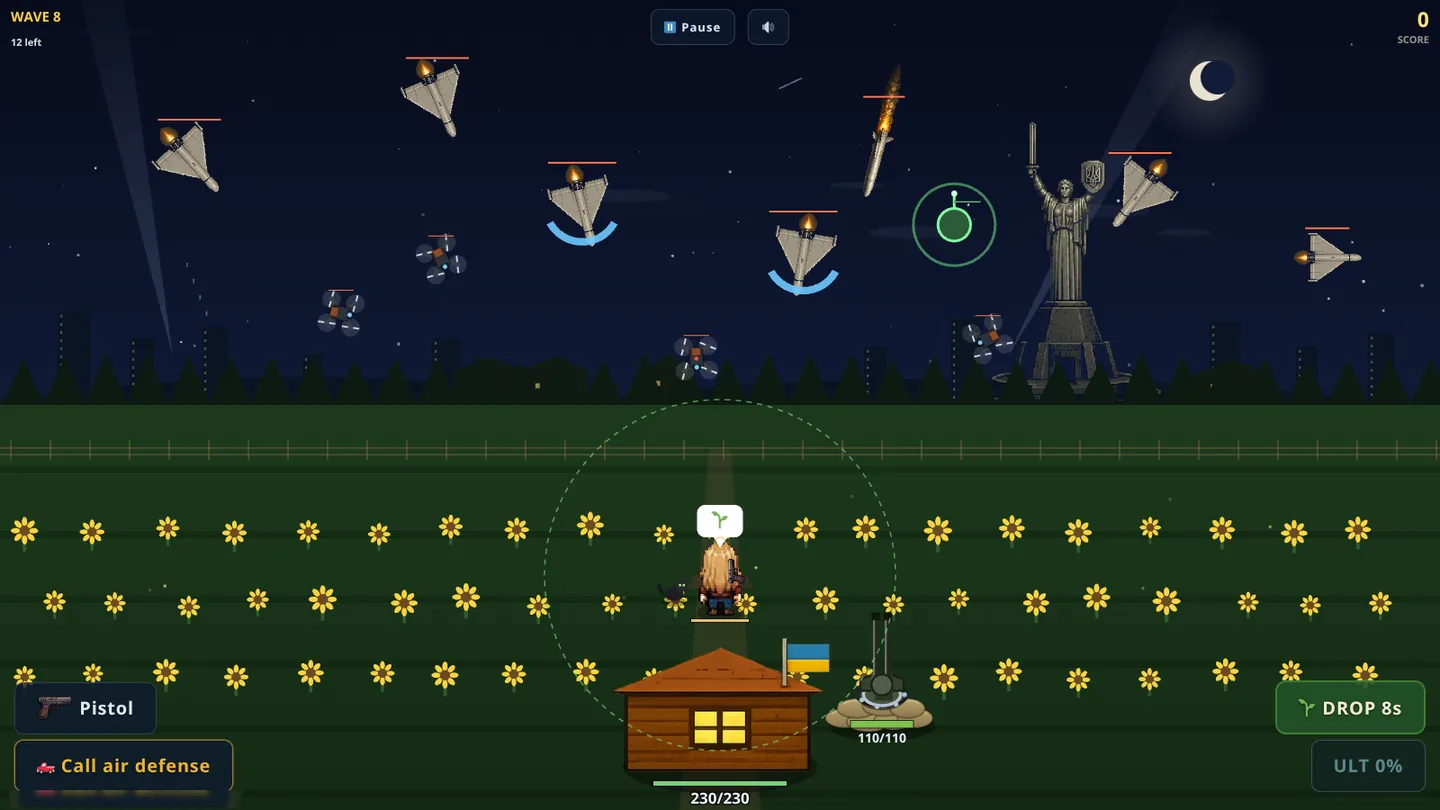
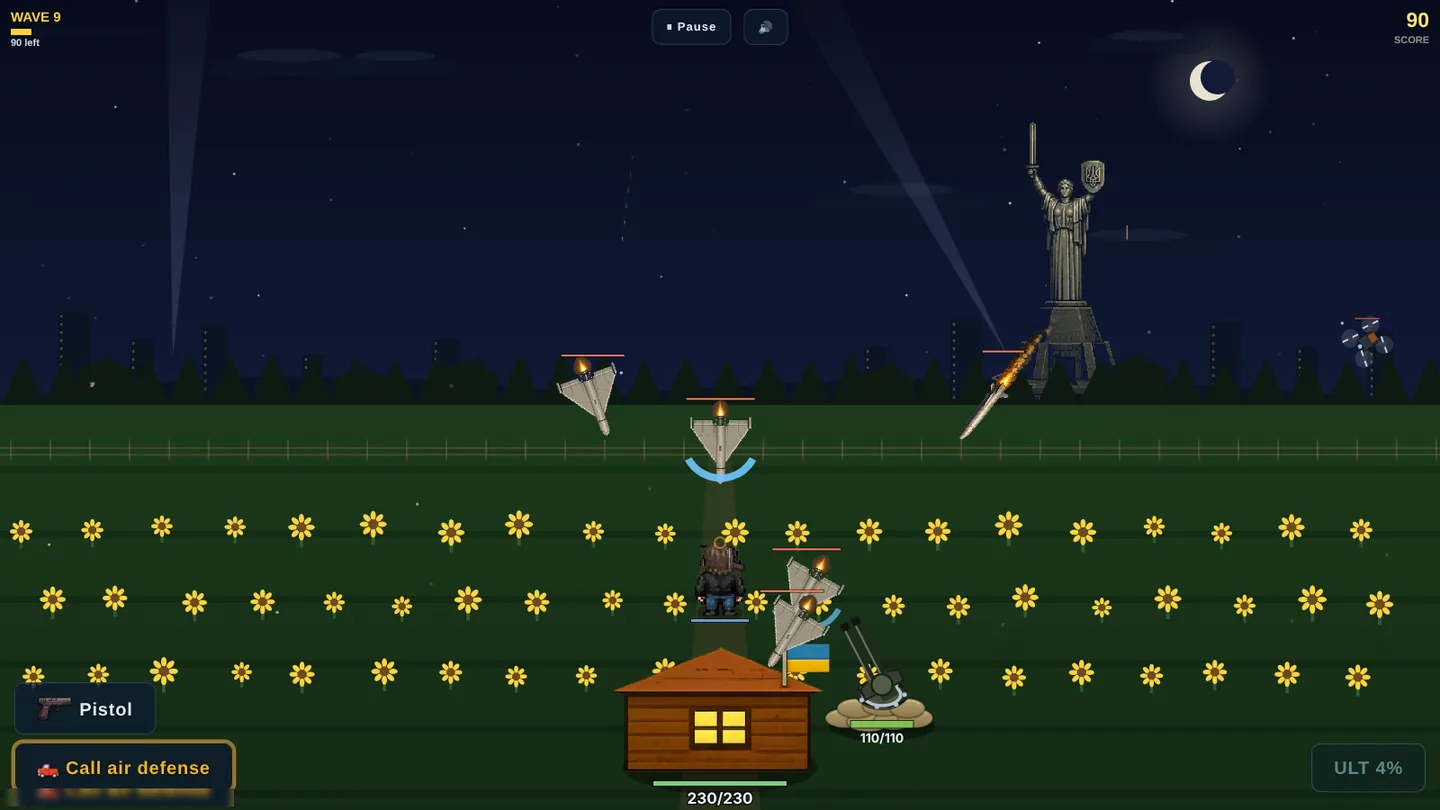
Add files via upload

diff --git a/index.html b/index.html
@@ -280,7 +280,7 @@
 <nav class="nav" aria-label="Sections">
   <div class="wrap">
     <a class="brand" href="#top">Guillaume Blanc</a>
-    <ul><li><a href="#autoreply">Auto-reply service</a></li><li><a href="#desk">Support Desk</a></li><li><a href="#scanners">Scanner suite</a></li><li><a href="#recommendation">Recommendation</a></li><li><a href="#heimdall">Heimdall</a></li><li><a href="#kyiv">Kyiv</a></li><li><a href="#about">About</a></li></ul>
+    <ul><li><a href="#autoreply">Auto-reply service</a></li><li><a href="#desk">Support Desk</a></li><li><a href="#scanners">Vision</a></li><li><a href="#recommendation">Recommendation</a></li><li><a href="#heimdall">Heimdall</a></li><li><a href="#kyiv">Kyiv</a></li><li><a href="#about">About</a></li></ul>
     <div class="langs"><a href="" lang="en" title="English" aria-current="true"><svg class="flag" viewBox="0 0 60 30" aria-hidden="true"><clipPath id="fc"><path d="M0,0v30h60V0z"/></clipPath><clipPath id="ft"><path d="M30,15h30v15zv15h-30zh-30v-15zv-15h30z"/></clipPath><g clip-path="url(#fc)"><path d="M0,0v30h60V0z" fill="#012169"/><path d="M0,0 60,30M60,0 0,30" stroke="#fff" stroke-width="6"/><path d="M0,0 60,30M60,0 0,30" clip-path="url(#ft)" stroke="#C8102E" stroke-width="4"/><path d="M30,0v30M0,15h60" stroke="#fff" stroke-width="10"/><path d="M30,0v30M0,15h60" stroke="#C8102E" stroke-width="6"/></g></svg><span>EN</span></a><a href="uk/" lang="uk" title="Українська"><svg class="flag" viewBox="0 0 3 2" aria-hidden="true"><rect width="3" height="1" fill="#0057B7"/><rect y="1" width="3" height="1" fill="#FFD700"/></svg><span>UA</span></a></div>
     <button class="theme" type="button" aria-label="Switch between light and dark" title="Switch between light and dark"><svg class="sun" viewBox="0 0 24 24" fill="none" stroke="currentColor" stroke-width="1.8" stroke-linecap="round"><circle cx="12" cy="12" r="4"/><path d="M12 2v2M12 20v2M4.9 4.9l1.4 1.4M17.7 17.7l1.4 1.4M2 12h2M20 12h2M4.9 19.1l1.4-1.4M17.7 6.3l1.4-1.4"/></svg><svg class="moon" viewBox="0 0 24 24" fill="none" stroke="currentColor" stroke-width="1.8" stroke-linecap="round" stroke-linejoin="round"><path d="M21 12.8A9 9 0 1 1 11.2 3a7 7 0 0 0 9.8 9.8z"/></svg></button>
   </div>
@@ -295,7 +295,7 @@
       <span class="cta-links"><a class="textlink" href="https://www.linkedin.com/in/guillaume-blanc-820bb528a">LinkedIn</a><a class="textlink" href="https://github.com/Dread92">GitHub</a><a class="textlink" href="mailto:guillaume.blanc92@hotmail.fr">Email</a></span>
     </div>
     <h2 class="glance-h">The work at a glance</h2>
-    <div class="glance"><a class="gcard" href="#autoreply"><span class="gimg"><img src="autoreply-sm.webp" alt="" width="640" height="400" loading="eager"></span><b>Auto-reply service</b><span>Replaced a paid Zapier workflow. 1,037 tickets, zero incidents.</span></a><a class="gcard" href="#desk"><span class="gimg"><img src="desk-sm.webp" alt="" width="640" height="400" loading="eager"></span><b>Support Desk</b><span>An agent workspace that engineering adopted natively.</span></a><a class="gcard" href="#scanners"><span class="gimg"><img src="scanner-sm.webp" alt="" width="640" height="400" loading="eager"></span><b>Scanner suite</b><span>Audits, a local vision model and a management dashboard.</span></a><a class="gcard" href="#heimdall"><span class="gimg"><img src="heimdall-sm.webp" alt="" width="640" height="400" loading="eager"></span><b>Heimdall</b><span>Free air-raid tracker for Kyiv, used by air-defence teams.</span></a></div>
+    <div class="glance"><a class="gcard" href="#autoreply"><span class="gimg"><img src="autoreply-sm.webp" alt="" width="640" height="400" loading="eager"></span><b>Auto-reply service</b><span>Replaced a paid Zapier workflow. 1,037 tickets, zero incidents.</span></a><a class="gcard" href="#desk"><span class="gimg"><img src="desk-sm.webp" alt="" width="640" height="400" loading="eager"></span><b>Support Desk</b><span>An agent workspace that engineering adopted natively.</span></a><a class="gcard" href="#scanners"><span class="gimg"><img src="scanner-sm.webp" alt="" width="640" height="400" loading="eager"></span><b>Vision and scanners</b><span>Computer vision on user screenshots to detect trends.</span></a><a class="gcard" href="#heimdall"><span class="gimg"><img src="heimdall-sm.webp" alt="" width="640" height="400" loading="eager"></span><b>Heimdall</b><span>Free air-raid tracker for Kyiv, used by air-defence teams.</span></a></div>
     <a class="scroll-cue" href="#autoreply" aria-label="Scroll to see the work"><span>Scroll to see the work</span><svg viewBox="0 0 24 24" fill="none" stroke="currentColor" stroke-width="1.8" stroke-linecap="round" stroke-linejoin="round"><path d="M6 9l6 6 6-6"/></svg></a>
   </div></section>
 
@@ -409,7 +409,7 @@
   </div></section>
 
   <section class="alt" id="scanners"><div class="wrap">
-    <div class="sec-head"><div class="kicker">Scanner suite</div><h2>Find the pattern before it becomes a ticket spike.</h2><p>Scanners that catch a pattern before it becomes a ticket spike, a local vision model that reads screenshots, and a dashboard for management.</p></div>
+    <div class="sec-head"><div class="kicker">Computer vision and scanners</div><h2>Reading user screenshots to spot the trend early.</h2><p>I set up computer vision on a local GPU to read the screenshots users attach to their tickets, so trends show up as evidence: which reward screen, which level, which game, which payout provider. Around it, scanners that catch a pattern before it becomes a ticket spike, and a dashboard for management.</p></div>
     <div class="shots2"><figure class="shot "><div class="frame"><i></i><i></i><i></i></div><img src="scanner.webp" alt="Illustration with sample data. The real tool runs on internal systems." width="1440" height="601" loading="lazy"><figcaption>Illustration with sample data. The real tool runs on internal systems.</figcaption></figure><figure class="shot "><div class="frame"><i></i><i></i><i></i></div><img src="monitor.webp" alt="Illustration with sample data. The real tool runs on internal systems." width="1440" height="587" loading="lazy"><figcaption>Illustration with sample data. The real tool runs on internal systems.</figcaption></figure></div>
     <details class="more-block"><summary><span>All eight tools</span></summary><div class="more-in">
       <p class="narrow">Support data is full of patterns nobody has time to look for: a payout provider failing in one country, a game generating tickets far above its install base, forty people thanking us for a fix we already sent. Each scanner pulls a slice of tickets, enriches it with backend data, and shows a list the agent can act on in bulk. Nothing is sent without a review and a confirmation, and every bulk action re-checks the ticket right before writing.</p>
@@ -513,10 +513,10 @@
 
   <section id="game"><div class="wrap">
     <div class="sec-head"><div class="kicker">Side project</div><h2>Ukraine Sky Defenders: a game about Kyiv's night sky.</h2><p>A wave-defense browser game: you hold a small house under the Motherland Monument while Shaheds, cruise missiles, FPV drones and ballistics come in at night. Playable on desktop and phone, installable, in three languages.</p><div class="meta"><span>JavaScript and Canvas, no framework</span><span>Firebase Hosting, Firestore, Auth</span><span>Installable PWA</span></div></div>
-    <figure class="shot dark"><div class="frame"><i></i><i></i><i></i></div><img src="game-1.webp" alt="Wave 8: Shaheds, FPV drones and a cruise missile over Kyiv." width="1440" height="810" loading="lazy"><figcaption>Wave 8: Shaheds, FPV drones and a cruise missile over Kyiv.</figcaption></figure>
-    <div class="shots2" style="margin-top:22px"><figure class="shot dark"><div class="frame"><i></i><i></i><i></i></div><img src="game-2.webp" alt="A boss phase: ballistic warning, weak window, escorts." width="1440" height="810" loading="lazy"><figcaption>A boss phase: ballistic warning, weak window, escorts.</figcaption></figure><figure class="shot dark"><div class="frame"><i></i><i></i><i></i></div><img src="game-m.webp" alt="On a phone: controls on the top rails, both thumbs free." width="1100" height="508" loading="lazy"><figcaption>On a phone: controls on the top rails, both thumbs free.</figcaption></figure></div>
+    <figure class="shot dark"><div class="frame"><i></i><i></i><i></i></div><img src="game-1.webp" alt="Wave 9: Shaheds, an FPV drone and a cruise missile over Kyiv." width="1440" height="810" loading="lazy"><figcaption>Wave 9: Shaheds, an FPV drone and a cruise missile over Kyiv.</figcaption></figure>
+    <div class="shots2" style="margin-top:22px"><figure class="shot dark"><div class="frame"><i></i><i></i><i></i></div><img src="game-2.webp" alt="Wave 11: Shaheds closing in on the house." width="1440" height="810" loading="lazy"><figcaption>Wave 11: Shaheds closing in on the house.</figcaption></figure><figure class="shot dark"><div class="frame"><i></i><i></i><i></i></div><img src="game-m.webp" alt="On a phone, wave 10: a missile barrage, controls on the top rails." width="1100" height="508" loading="lazy"><figcaption>On a phone, wave 10: a missile barrage, controls on the top rails.</figcaption></figure></div>
     <details class="more-block"><summary><span>How it's built</span></summary><div class="more-in narrow">
-      <p>The whole game ships as one self-contained HTML file: about 3,600 lines of JavaScript on a Canvas 2D loop, with sprites and audio inlined, a versioned service worker for offline play, and Firebase for the leaderboard, accounts and cloud saves. 24 playable defenders with their own weapons and ultimates, 10 enemy types, 2 multi-phase bosses, 4 difficulties, full Ukrainian, French and English.</p><p>Details I like: the HUD adapts to the input type rather than the screen size, so phone players keep both thumbs free while mouse users get a classic layout. Enemies are designed to force decisions: a shielded Shahed you have to flank, a carrier that splits into three drones, a jammer that silences your turrets. When players reported random freezes, I added a crash guard that keeps the game running and records the first error with its context, which let me collect diagnostics from real phones without a debugger.</p><p>It was built with heavy AI assistance, and I say so openly. I owned the concept, game design, balancing, art direction, playtesting and the Firebase security settings; the code was written under my direction through small, self-verifying patch scripts, each syntax-checked before deploy. A good exercise in directing AI tools with guardrails.</p>
+      <p>The whole game ships as one self-contained HTML file: about 3,600 lines of JavaScript on a Canvas 2D loop, with sprites and audio inlined, a versioned service worker for offline play, and Firebase for the leaderboard, accounts and cloud saves. 24 playable defenders with their own weapons and ultimates, 10 enemy types, 2 multi-phase bosses, 4 difficulties, full Ukrainian, French and English.</p><p>Details I like: the HUD adapts to the input type rather than the screen size, so phone players keep both thumbs free while mouse users get a classic layout. Enemies are designed to force decisions: a shielded Shahed you have to flank, a carrier that splits into three drones, a jammer that silences your turrets. When players reported random freezes, I added a crash guard that keeps the game running and records the first error with its context, which let me collect diagnostics from real phones without a debugger.</p><p>I owned the concept, game design, balancing, art direction, playtesting and the Firebase security settings; the code was written under my direction through small, self-verifying patch scripts, each syntax-checked before deploy. A good exercise in directing AI tools with guardrails.</p>
     </div></details>
   </div></section>
 
